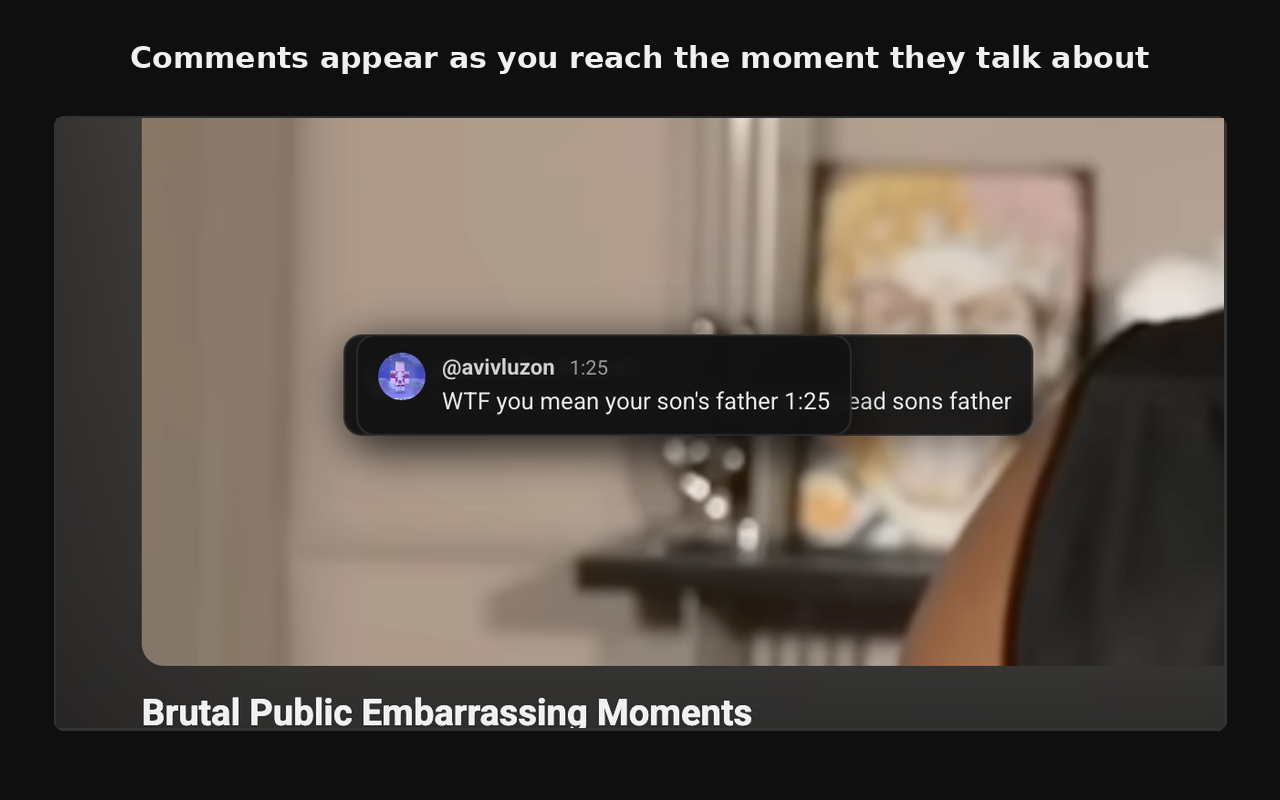
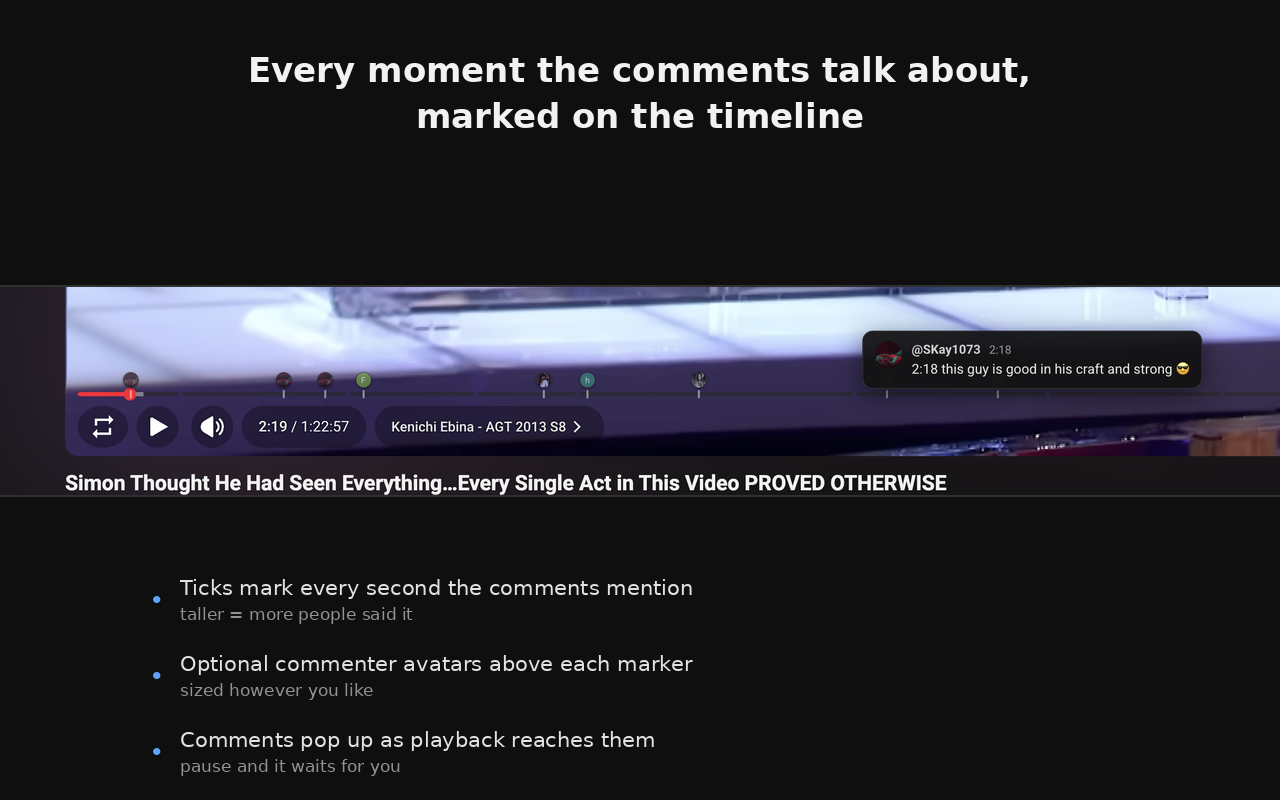
Replace store screenshots with real captures
New timeline/popup and hover-card shots taken on a live video, plus a
third shot of the settings page.

diff --git a/store/STORE-LISTING.md b/store/STORE-LISTING.md
@@ -54,7 +54,11 @@ Not affiliated with, endorsed by, or sponsored by YouTube or Google LLC.
 **Category:** Entertainment
 **Language:** English
 
-**Screenshots:** upload `store/screenshot-1.png` and `store/screenshot-2.png` (both 1280×800)
+**Screenshots:** upload `store/screenshot-1.png`, `store/screenshot-2.png` and `store/screenshot-3.png` (all 1280×800)
+
+1. Timeline markers and a comment popping up during playback
+2. Hovering the timeline, comment card above YouTube's own preview
+3. The settings page
 
 **Official URL / homepage:** `https://abszar.github.io/comment-markers-for-youtube/`
 **Support URL:** `https://github.com/abszar/comment-markers-for-youtube/issues`
